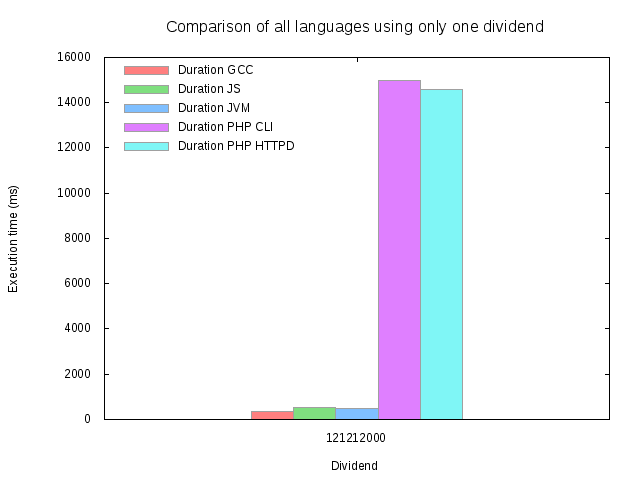
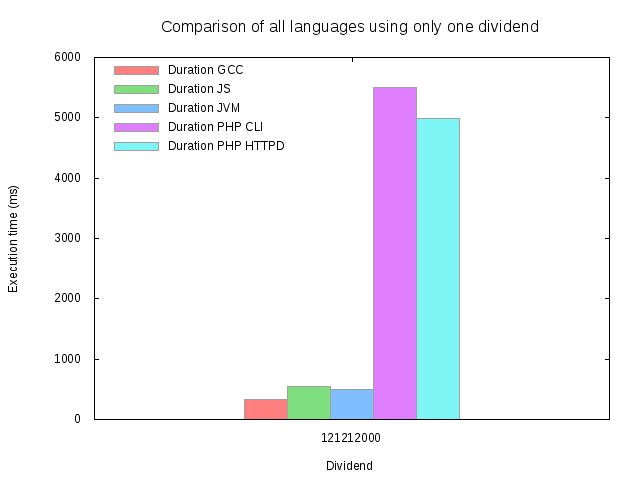
performance-test: PHP optimization, speed increased by more than 2x

diff --git a/performance-test/FindFactors.php b/performance-test/FindFactors.php
@@ -1,14 +1,15 @@
 <?php
 
-if (empty($usage))
+if (empty($usage)) {
 	$usage = "Usage: php {$argv[0]} <INTEGER>";
+}
 
 if(!checkArgs($argv)) {
 	echo "$usage\n";
 	exit(1);
 }
 
-$dividend = $argv[1];
+$dividend = get_numeric($argv[1]);
 
 $factors = findFactors($dividend);
 echo '[' . join(', ', $factors) . "]\n";
